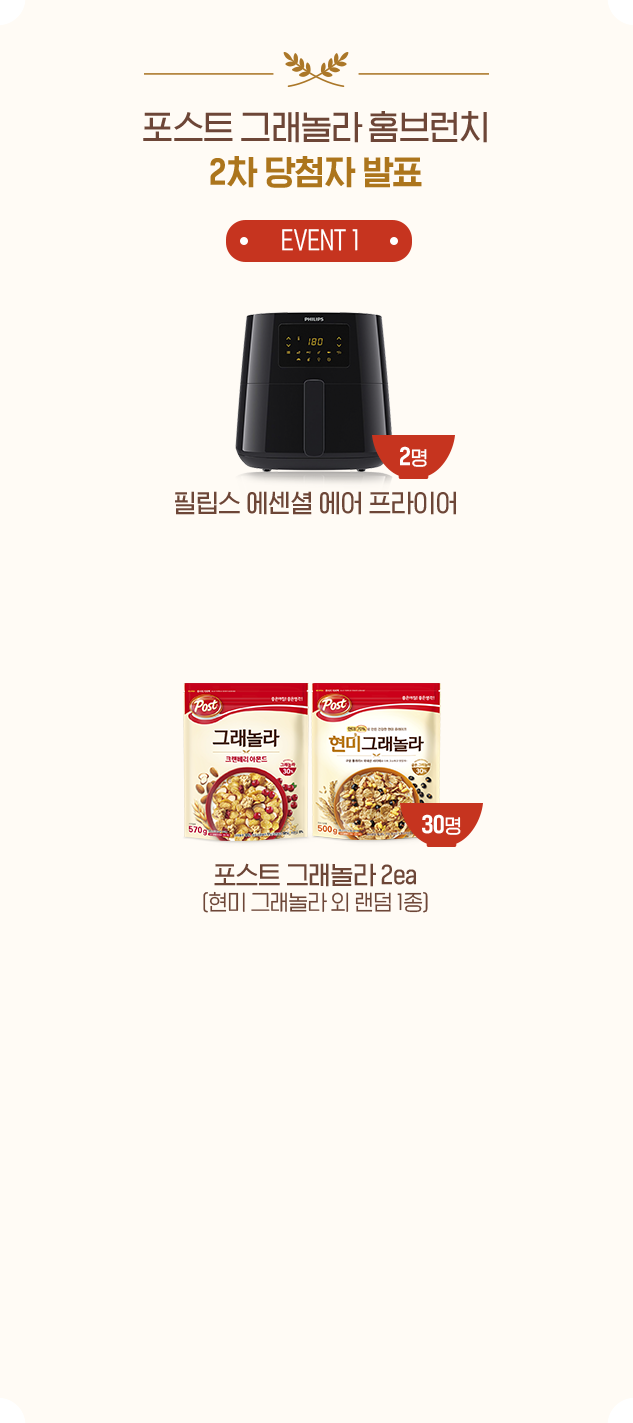
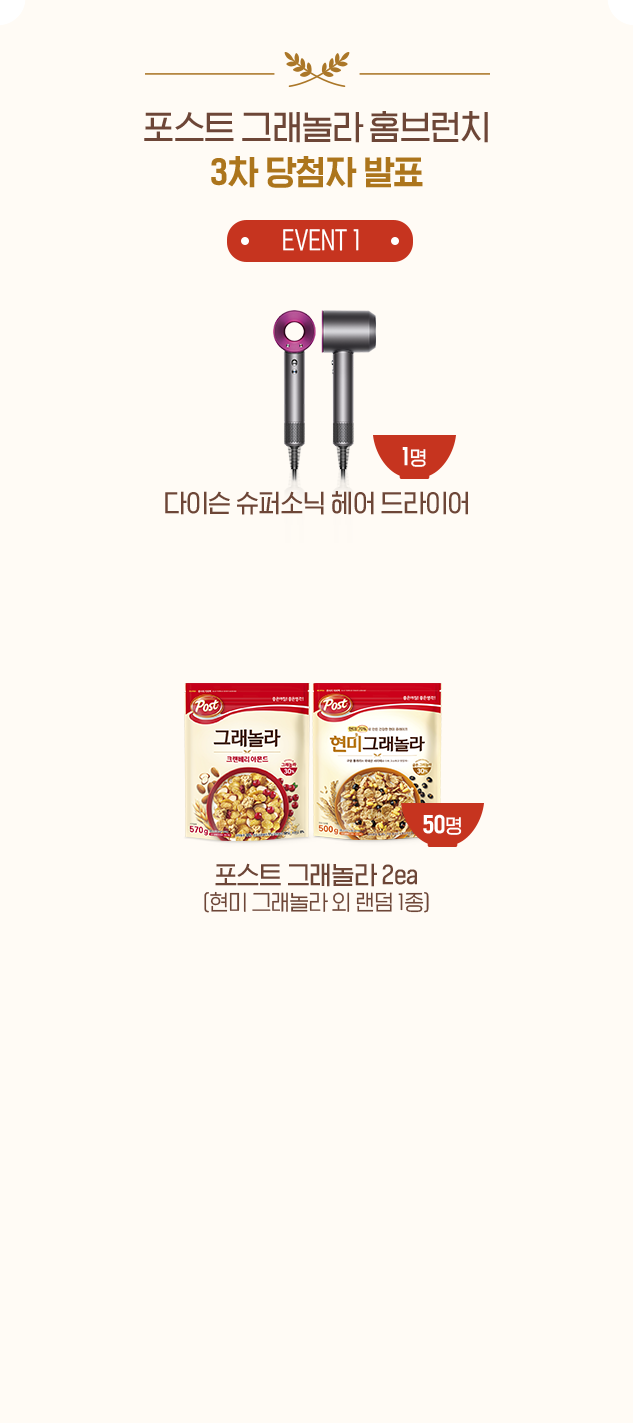
3차 당발

diff --git a/index.html b/index.html
@@ -525,106 +525,133 @@
 					<div class="swiper-wrapper">
 						<div class="swiper-slide result-slide page-1">
 							<div class="result-prize result-prize1">
-								<h5 class="sr-only">필립스 에센셜 에어 프라이어 : 2명</h5>
+								<h5 class="sr-only">다이슨 슈퍼소닉 헤어드라이어 : 1명</h5>
 								<ul>
-									<li><span>김*선</span><span>35*8</span></li>
-									<li><span>최*경</span><span>41*5</span></li>
+									<li><span>유*아</span><span>46*0</span></li>
 								</ul>
 							</div>
 							<div class="result-prize result-prize2">
-								<h5 class="sr-only">포스트 그래놀라 2ea (현미 그래놀라 외 랜덤 1종) : 30명</h5>
+								<h5 class="sr-only">포스트 그래놀라 2ea (현미 그래놀라 외 랜덤 1종) : 50명</h5>
 								<ul>
-									<li><span>김*수</span><span>38*3</span></li>
-									<li><span>김*희</span><span>92*6</span></li>
-									<li><span>김*진</span><span>38*8</span></li>
-									<li><span>김*진</span><span>54*3</span></li>
-									<li><span>김*수</span><span>45*8</span></li>
-									<li><span>김*정</span><span>76*5</span></li>
-									<li><span>노*미</span><span>61*8</span></li>
-									<li><span>노*영</span><span>35*6</span></li>
-									<li><span>문*철</span><span>03*4</span></li>
-									<li><span>박*영</span><span>75*4</span></li>
-									<li><span>박*영</span><span>30*3</span></li>
-									<li><span>배*한</span><span>18*1</span></li>
-									<li><span>백*민</span><span>85*0</span></li>
-									<li><span>서*경</span><span>73*2</span></li>
-									<li><span>손*조</span><span>35*8</span></li>
-									<li><span>안*영</span><span>37*6</span></li>
-									<li><span>오*림</span><span>95*3</span></li>
-									<li><span>유*수</span><span>90*2</span></li>
-									<li><span>이*연</span><span>00*0</span></li>
-									<li><span>이*림</span><span>74*0</span></li>
-									<li><span>장*석</span><span>02*5</span></li>
-									<li><span>정*희</span><span>82*9</span></li>
-									<li><span>정*현</span><span>04*9</span></li>
-									<li><span>정*름</span><span>49*2</span></li>
-									<li><span>정*숙</span><span>26*4</span></li>
-									<li><span>정*수</span><span>45*4</span></li>
-									<li><span>표*영</span><span>52*7</span></li>
-									<li><span>하*미</span><span>16*5</span></li>
-									<li><span>한*대</span><span>11*7</span></li>
-									<li><span>한*성</span><span>92*6</span></li>
+									<li><span>강*숙</span><span>75*4</span></li>
+									<li><span>곽*건</span><span>84*7</span></li>
+									<li><span>곽*정</span><span>03*8</span></li>
+									<li><span>권*희</span><span>15*0</span></li>
+									<li><span>김*희</span><span>98*7</span></li>
+									<li><span>김*민</span><span>71*3</span></li>
+									<li><span>김*호</span><span>84*3</span></li>
+									<li><span>김*선</span><span>83*5</span></li>
+									<li><span>김*하</span><span>09*6</span></li>
+									<li><span>김*준</span><span>52*3</span></li>
+									<li><span>김*연</span><span>03*1</span></li>
+									<li><span>김*훈</span><span>46*2</span></li>
+									<li><span>김*희</span><span>03*7</span></li>
+									<li><span>김*훈</span><span>48*0</span></li>
+									<li><span>김*진</span><span>59*7</span></li>
+									<li><span>박*은</span><span>48*6</span></li>
+									<li><span>박*재</span><span>10*6</span></li>
+									<li><span>박*현</span><span>99*7</span></li>
+									<li><span>박*주</span><span>64*7</span></li>
+									<li><span>백*환</span><span>53*2</span></li>
+									<li><span>서*희</span><span>87*9</span></li>
+									<li><span>송*훈</span><span>00*8</span></li>
+									<li><span>송*영</span><span>78*9</span></li>
+									<li><span>안*영</span><span>19*2</span></li>
+									<li><span>위*규</span><span>75*7</span></li>
+									<li><span>유*경</span><span>58*4</span></li>
+									<li><span>윤*환</span><span>67*1</span></li>
+									<li><span>이*훈</span><span>35*9</span></li>
+									<li><span>이*연</span><span>46*7</span></li>
+									<li><span>이*정</span><span>34*2</span></li>
+									<li><span>이*새</span><span>51*7</span></li>
+									<li><span>이*화</span><span>50*0</span></li>
+									<li><span>이*아</span><span>67*6</span></li>
+									<li><span>임*영</span><span>39*3</span></li>
+									<li><span>임*라</span><span>29*2</span></li>
+									<li><span>임*섭</span><span>39*3</span></li>
+									<li><span>장*람</span><span>69*5</span></li>
+									<li><span>정*조</span><span>22*8</span></li>
+									<li><span>정*영</span><span>35*0</span></li>
+									<li><span>조*진</span><span>06*4</span></li>
+									<li><span>조*채</span><span>51*3</span></li>
+									<li><span>조*하</span><span>95*9</span></li>
+									<li><span>주*진</span><span>65*7</span></li>
+									<li><span>지*선</span><span>12*8</span></li>
+									<li><span>최*석</span><span>74*0</span></li>
+									<li><span>최*봄</span><span>49*3</span></li>
+									<li><span>탁*선</span><span>29*0</span></li>
+									<li><span>한*화</span><span>60*1</span></li>
+									<li><span>한*희</span><span>85*3</span></li>
+									<li><span>허*윤</span><span>62*3</span></li>
+									<li><span></span><span></span></li>
 								</ul>
 							</div>
 						</div>
 						<div class="swiper-slide result-slide page-2">
 							<div class="result-prize3">
-								<h5 class="sr-only">홈브런치 체험단 : 30명</h5>
+								<h5 class="sr-only">홈브런치 체험단 : 20명</h5>
 								<ul>
-									<li><span>강*욱</span><span>34*4</span></li>
-									<li><span>권*진</span><span>36*9</span></li>
-									<li><span>김*현</span><span>11*1</span></li>
-									<li><span>김*울</span><span>35*3</span></li>
-									<li><span>김*라</span><span>39*2</span></li>
-									<li><span>김*진</span><span>78*3</span></li>
-									<li><span>김*지</span><span>12*4</span></li>
-									<li><span>나*화</span><span>86*6</span></li>
-									<li><span>민*영</span><span>95*4</span></li>
-									<li><span>박*정</span><span>34*3</span></li>
-									<li><span>박*한</span><span>49*0</span></li>
-									<li><span>서*연</span><span>07*5</span></li>
-									<li><span>오*선</span><span>54*9</span></li>
-									<li><span>유*혜</span><span>08*8</span></li>
-									<li><span>이*혜</span><span>66*5</span></li>
-									<li><span>이*</span><span>96*7</span></li>
-									<li><span>이*기</span><span>87*0</span></li>
-									<li><span>이*희</span><span>43*0</span></li>
-									<li><span>이*경</span><span>08*8</span></li>
-									<li><span>이*숙</span><span>66*4</span></li>
-									<li><span>이*얀</span><span>19*4</span></li>
-									<li><span>이*미</span><span>01*6</span></li>
-									<li><span>임*름</span><span>30*6</span></li>
-									<li><span>전*희</span><span>50*4</span></li>
-									<li><span>조*아</span><span>61*6</span></li>
-									<li><span>최*은</span><span>22*4</span></li>
-									<li><span>최*하</span><span>11*1</span></li>
-									<li><span>한*혜</span><span>16*1</span></li>
-									<li><span>한*름</span><span>24*2</span></li>
-									<li><span>한*진</span><span>49*2</span></li>
+									<li><span>고*희</span><span>28*5</span></li>
+									<li><span>김*미</span><span>82*4</span></li>
+									<li><span>김*현</span><span>32*9</span></li>
+									<li><span>박*지</span><span>86*5</span></li>
+									<li><span>변*아</span><span>39*7</span></li>
+									<li><span>서*혜</span><span>70*7</span></li>
+									<li><span>심*율</span><span>87*3</span></li>
+									<li><span>안*재</span><span>53*7</span></li>
+									<li><span>양*희</span><span>13*5</span></li>
+									<li><span>윤*영</span><span>34*4</span></li>
+									<li><span>이*현</span><span>54*3</span></li>
+									<li><span>이*람</span><span>22*0</span></li>
+									<li><span>이*은</span><span>66*7</span></li>
+									<li><span>정*선</span><span>78*1</span></li>
+									<li><span>정*형</span><span>92*5</span></li>
+									<li><span>정*영</span><span>50*2</span></li>
+									<li><span>조*경</span><span>63*0</span></li>
+									<li><span>조*진</span><span>23*6</span></li>
+									<li><span>차*혜</span><span>03*4</span></li>
+									<li><span>한*이</span><span>85*5</span></li>
+									<li><span></span><span></span></li>
 								</ul>
 							</div>
 						</div>
 						<div class="swiper-slide result-slide page-3">
 							<div class="result-prize result-prize4">
-								<h5 class="sr-only">신세계 모바일 상품권 10만원 권 : 2명</h5>
+								<h5 class="sr-only">LG 오브제 컬렉션 광파 오븐 : 1명</h5>
 								<ul>
-									<li><span>김*림</span><span>71*0</span></li>
-									<li><span>강*숙</span><span>22*1</span></li>
+									<li><span>임*숙</span><span>11*1</span></li>
+								</ul>
+							</div>
+							<div class="result-prize result-prize6">
+								<h5 class="sr-only">신세계 모바일 상품권 10만원 권 : 1명</h5>
+								<ul>
+									<li><span>최*애</span><span>06*8</span></li>
 								</ul>
 							</div>
 							<div class="result-prize result-prize5">
-								<h5 class="sr-only">맥심 TOP 마스터라떼 275ml : 10명</h5>
+								<h5 class="sr-only">맥심 TOP 마스터라떼 275ml : 20명</h5>
 								<ul>
-									<li><span>김*애</span><span>60*3</span></li>
-									<li><span>김*나</span><span>77*0</span></li>
-									<li><span>김*선</span><span>10*5</span></li>
-									<li><span>문*진</span><span>98*2</span></li>
-									<li><span>문*민</span><span>61*5</span></li>
-									<li><span>양*천</span><span>84*8</span></li>
-									<li><span>오*지</span><span>29*7</span></li>
-									<li><span>정*연</span><span>41*1</span></li>
-									<li><span>정*주</span><span>24*5</span></li>
-									<li><span>추*지</span><span>33*3</span></li>
+									<li><span>고*옥</span><span>81*7</span></li>
+									<li><span>구*나</span><span>30*1</span></li>
+									<li><span>김*정</span><span>50*0</span></li>
+									<li><span>김*주</span><span>50*6</span></li>
+									<li><span>김*경</span><span>22*8</span></li>
+									<li><span>김*화</span><span>55*6</span></li>
+									<li><span>김*신</span><span>50*5</span></li>
+									<li><span>박*진</span><span>09*1</span></li>
+									<li><span>박*주</span><span>69*4</span></li>
+									<li><span>백*영</span><span>67*9</span></li>
+									<li><span>서*경</span><span>95*8</span></li>
+									<li><span>유*민</span><span>97*0</span></li>
+									<li><span>윤*영</span><span>23*4</span></li>
+									<li><span>장*영</span><span>50*8</span></li>
+									<li><span>장*영</span><span>20*7</span></li>
+									<li><span>장*식</span><span>20*8</span></li>
+									<li><span>전*희</span><span>84*4</span></li>
+									<li><span>정*정</span><span>22*1</span></li>
+									<li><span>정*욱</span><span>50*0</span></li>
+									<li><span>최*현</span><span>23*6</span></li>
+									<li><span></span><span></span></li>
 								</ul>
 							</div>
 						</div>

diff --git a/src/css/common.css b/src/css/common.css
@@ -943,9 +943,9 @@ main section .title-sub {
 .event3 .button-result1::after {
 	content: "";
 	display: inline-block;
-	width: 20.5rem;
+	width: 21.1rem;
 	height: 3.2rem;
-	background: url(../img/result-button2.png) no-repeat center center/contain;
+	background: url(../img/result-button3.png) no-repeat center center/contain;
 }
 
 .notice {
@@ -1859,7 +1859,7 @@ footer p:last-child {
 }
 
 .modal-result .result-slide.page-3{
-	height: 126.5rem;
+	height: 172.4rem;
 	background: url(../img/modal-winner-bg3.png) no-repeat center center/contain;
 }
 
@@ -1943,14 +1943,15 @@ footer p:last-child {
 }
 
 .result-prize1 ul,
-.result-prize4 ul{
+.result-prize4 ul,
+.result-prize6 ul{
 	justify-content: center;
 }
 
-.result-prize1 ul li:first-child,
+/* .result-prize1 ul li:first-child,
 .result-prize4 ul li:first-child{
 	margin-right: 3rem;
-}
+} */
 
 .result-prize2{
 	margin-top: 30rem;
@@ -1961,14 +1962,14 @@ footer p:last-child {
 }
 
 .result-prize2,
-.result-prize3{
+.result-prize5{
 	height: 33.5rem;
 	overflow-y: scroll;
 	border-bottom-left-radius: 1rem;
 }
 
 .result-prize2 ul,
-.result-prize3 ul{
+.result-prize5 ul{
 	border-top-left-radius: 1rem;
 	border-top-right-radius: 0;
 	border-bottom-left-radius: 1rem;
@@ -1976,29 +1977,33 @@ footer p:last-child {
 }
 
 .result-prize2::-webkit-scrollbar,
-.result-prize3::-webkit-scrollbar{
+.result-prize5::-webkit-scrollbar{
 	width: 2rem;
 }
 
 .result-prize2::-webkit-scrollbar-thumb ,
-.result-prize3::-webkit-scrollbar-thumb {
+.result-prize5::-webkit-scrollbar-thumb {
 	background: #c39453;
 }
 
 .result-prize2::-webkit-scrollbar-track,
-.result-prize3::-webkit-scrollbar-track {
+.result-prize5::-webkit-scrollbar-track {
 	background: #ddd8d1;
 }
 
 .result-prize4{
-	margin-top: 55rem;
+	margin-top: 56rem;
 }
 
 .result-prize5{
-	margin-top: 29rem;
-	height: 21.3rem;
+	margin-top: 31rem;
+	height: 29.5rem;
 	/* overflow-y: scroll; */
 	border-bottom-left-radius: 1rem;
+}
+
+.result-prize6{
+	margin-top: 25rem;
 }
 
 @media (max-width: 720px) {
